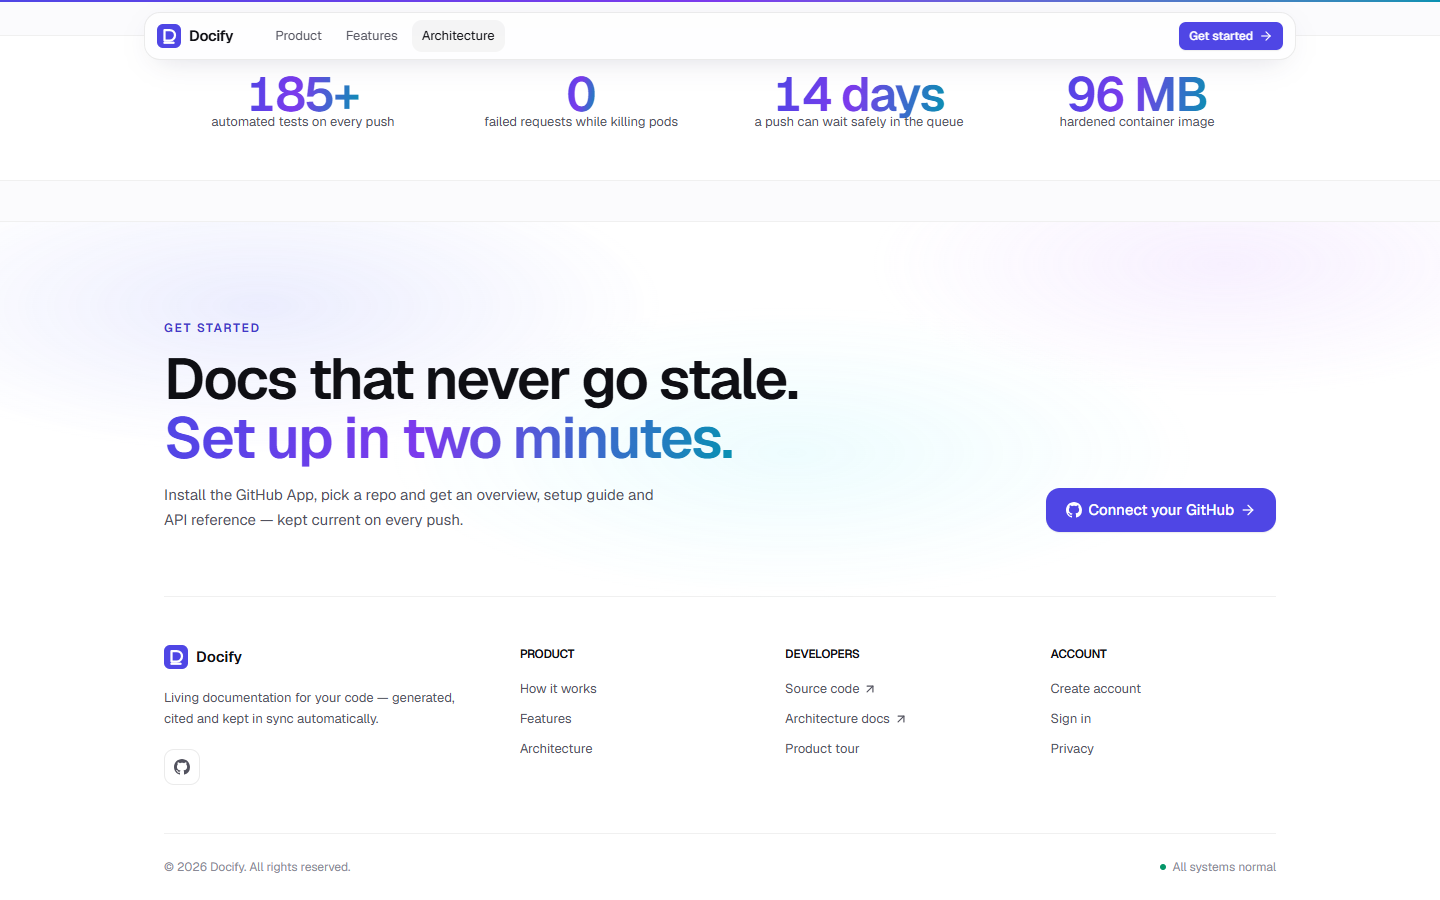
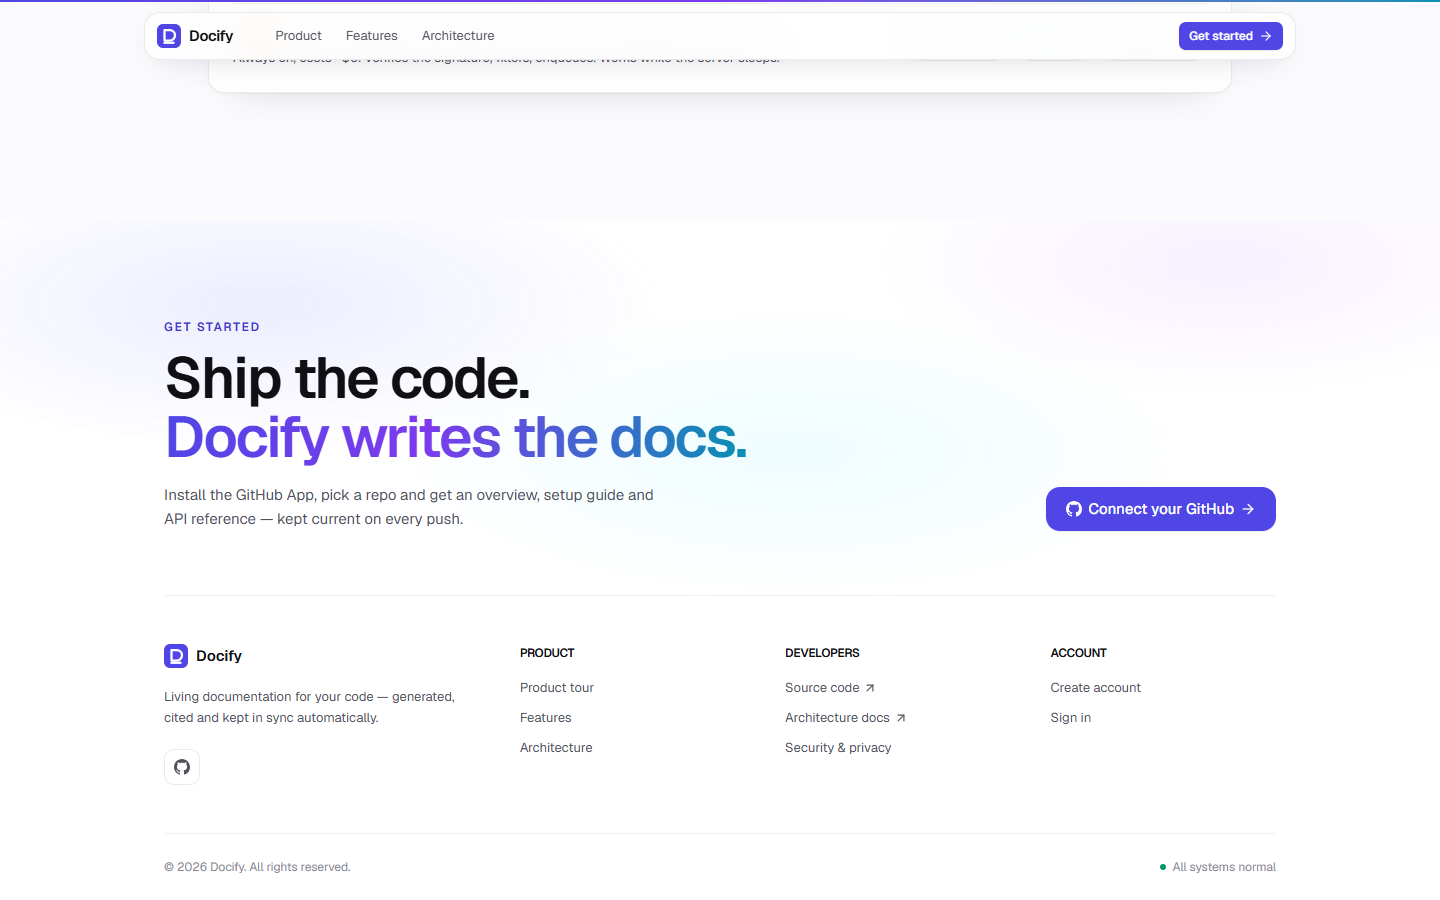
feat(landing): new headline (Docs that write themselves. And never go stale.), footer CTA copy, removed stats band and personal names from the film

diff --git a/frontend/src/pages/landing/Closing.tsx b/frontend/src/pages/landing/Closing.tsx
@@ -4,32 +4,8 @@ import { Link } from "react-router";
 import { GitHubIcon } from "@/components/BrandIcons";
 import { LogoMark } from "@/components/Logo";
 import { Button } from "@/components/ui";
-import { CountUp, Magnetic, Reveal } from "./fx";
+import { Magnetic, Reveal } from "./fx";
 import { scrollToSection } from "./motion-utils";
-
-const STATS = [
-  { to: 185, suffix: "+", label: "automated tests on every push" },
-  { to: 0, suffix: "", label: "failed requests while killing pods" },
-  { to: 14, suffix: " days", label: "a push can wait safely in the queue" },
-  { to: 96, suffix: " MB", label: "hardened container image" },
-];
-
-export function Stats() {
-  return (
-    <section className="border-t border-black/[0.06] bg-white">
-      <div className="mx-auto grid max-w-6xl grid-cols-2 px-5 md:grid-cols-4">
-        {STATS.map((s, i) => (
-          <Reveal key={s.label} delay={i * 0.06} className="px-4 py-12 text-center">
-            <div className="text-[clamp(2rem,4vw,3rem)] font-semibold tracking-tight">
-              <CountUp to={s.to} suffix={s.suffix} className="l-gradient-text" />
-            </div>
-            <div className="mt-2 text-sm text-fg-muted">{s.label}</div>
-          </Reveal>
-        ))}
-      </div>
-    </section>
-  );
-}
 
 const REPO = "https://github.com/docify-work/docify";
 
@@ -64,9 +40,9 @@ export function SiteFooter({ primaryHref, primaryLabel, demoHref }: {
           <div className="max-w-2xl">
             <p className="l-eyebrow">Get started</p>
             <h2 className="mt-3 text-[clamp(2rem,4.6vw,3.6rem)] font-semibold leading-[1.02]">
-              Docs that never go stale.
+              Ship the code.
               <br />
-              <span className="l-gradient-text">Set up in two minutes.</span>
+              <span className="l-gradient-text">Docify writes the docs.</span>
             </h2>
             <p className="mt-4 max-w-lg text-[15px] leading-relaxed text-fg-muted">
               Install the GitHub App, pick a repo and get an overview, setup guide and API reference — kept current on

diff --git a/frontend/src/pages/landing/LandingPage.tsx b/frontend/src/pages/landing/LandingPage.tsx
@@ -7,7 +7,7 @@ import { useMe } from "@/hooks/useMe";
 import { usePageMeta } from "@/hooks/usePageMeta";
 import { oauthErrorMessage } from "@/lib/messages";
 import { Architecture } from "./Architecture";
-import { SiteFooter, Stats } from "./Closing";
+import { SiteFooter } from "./Closing";
 import { Features } from "./Features";
 import { useSmoothScroll } from "./motion-utils";
 import { Hero } from "./Hero";
@@ -16,7 +16,7 @@ import { Nav } from "./Nav";
 
 /** Marketing landing page: full-bleed, always dark, its own nav + footer (outside PublicLayout). */
 export default function LandingPage() {
-  usePageMeta([{ label: "Docs that keep up with your code" }]);
+  usePageMeta([{ label: "Docs that write themselves" }]);
   useSmoothScroll();
   const { me } = useMe();
   const [params, setParams] = useSearchParams();
@@ -41,7 +41,6 @@ export default function LandingPage() {
         <Marquee />
         <Features />
         <Architecture />
-        <Stats />
       </main>
       <SiteFooter primaryHref={primaryHref} primaryLabel={primaryLabel} demoHref={demoHref} />
     </div>

diff --git a/frontend/src/pages/landing/remotion/DocifyDemo.tsx b/frontend/src/pages/landing/remotion/DocifyDemo.tsx
@@ -105,7 +105,7 @@ function PushScene({ f }: { f: number }) {
     <div style={card({ padding: 30, transform: `translateY(${(1 - p) * 40}px) scale(${0.96 + p * 0.04})`, opacity: p })}>
       <div style={{ display: "flex", alignItems: "center", gap: 12, fontSize: 19, color: C.muted }}>
         <div style={{ width: 34, height: 34, borderRadius: 999, background: GRADIENT }} />
-        <span style={{ color: C.fg, fontWeight: 600 }}>ganesh</span> pushed to <span style={{ fontFamily: mono, color: C.cyan }}>main</span>
+        <span style={{ color: C.fg, fontWeight: 600 }}>New commit</span> on <span style={{ fontFamily: mono, color: C.cyan }}>main</span>
         <span style={{ marginLeft: "auto", fontFamily: mono, fontSize: 16, color: C.subtle }}>4f2c9e1</span>
       </div>
       <div style={{ marginTop: 14, fontSize: 25, fontWeight: 600, letterSpacing: -0.4 }}>feat(auth): rate-limit login + async password check</div>

diff --git a/frontend/src/pages/landing/Hero.tsx b/frontend/src/pages/landing/Hero.tsx
@@ -57,9 +57,9 @@ export function Hero({ primaryHref, primaryLabel, demoHref }: {
           </motion.span>
 
           <h1 className="mt-6 text-[clamp(2.2rem,3.6vw,3.25rem)] font-semibold leading-[1.04] tracking-[-0.045em]">
-            <SplitWords text="Your code changes." delay={0.1} />
+            <SplitWords text="Docs that write themselves." delay={0.1} gradientWords={["themselves."]} />
             <br />
-            <SplitWords text="Your docs keep up." delay={0.3} gradientWords={["docs"]} />
+            <SplitWords text="And never go stale." delay={0.35} />
           </h1>
 
           <motion.p {...fadeUp(0.55)} className="mx-auto mt-5 max-w-md text-[15.5px] leading-relaxed text-fg-muted lg:mx-0">
